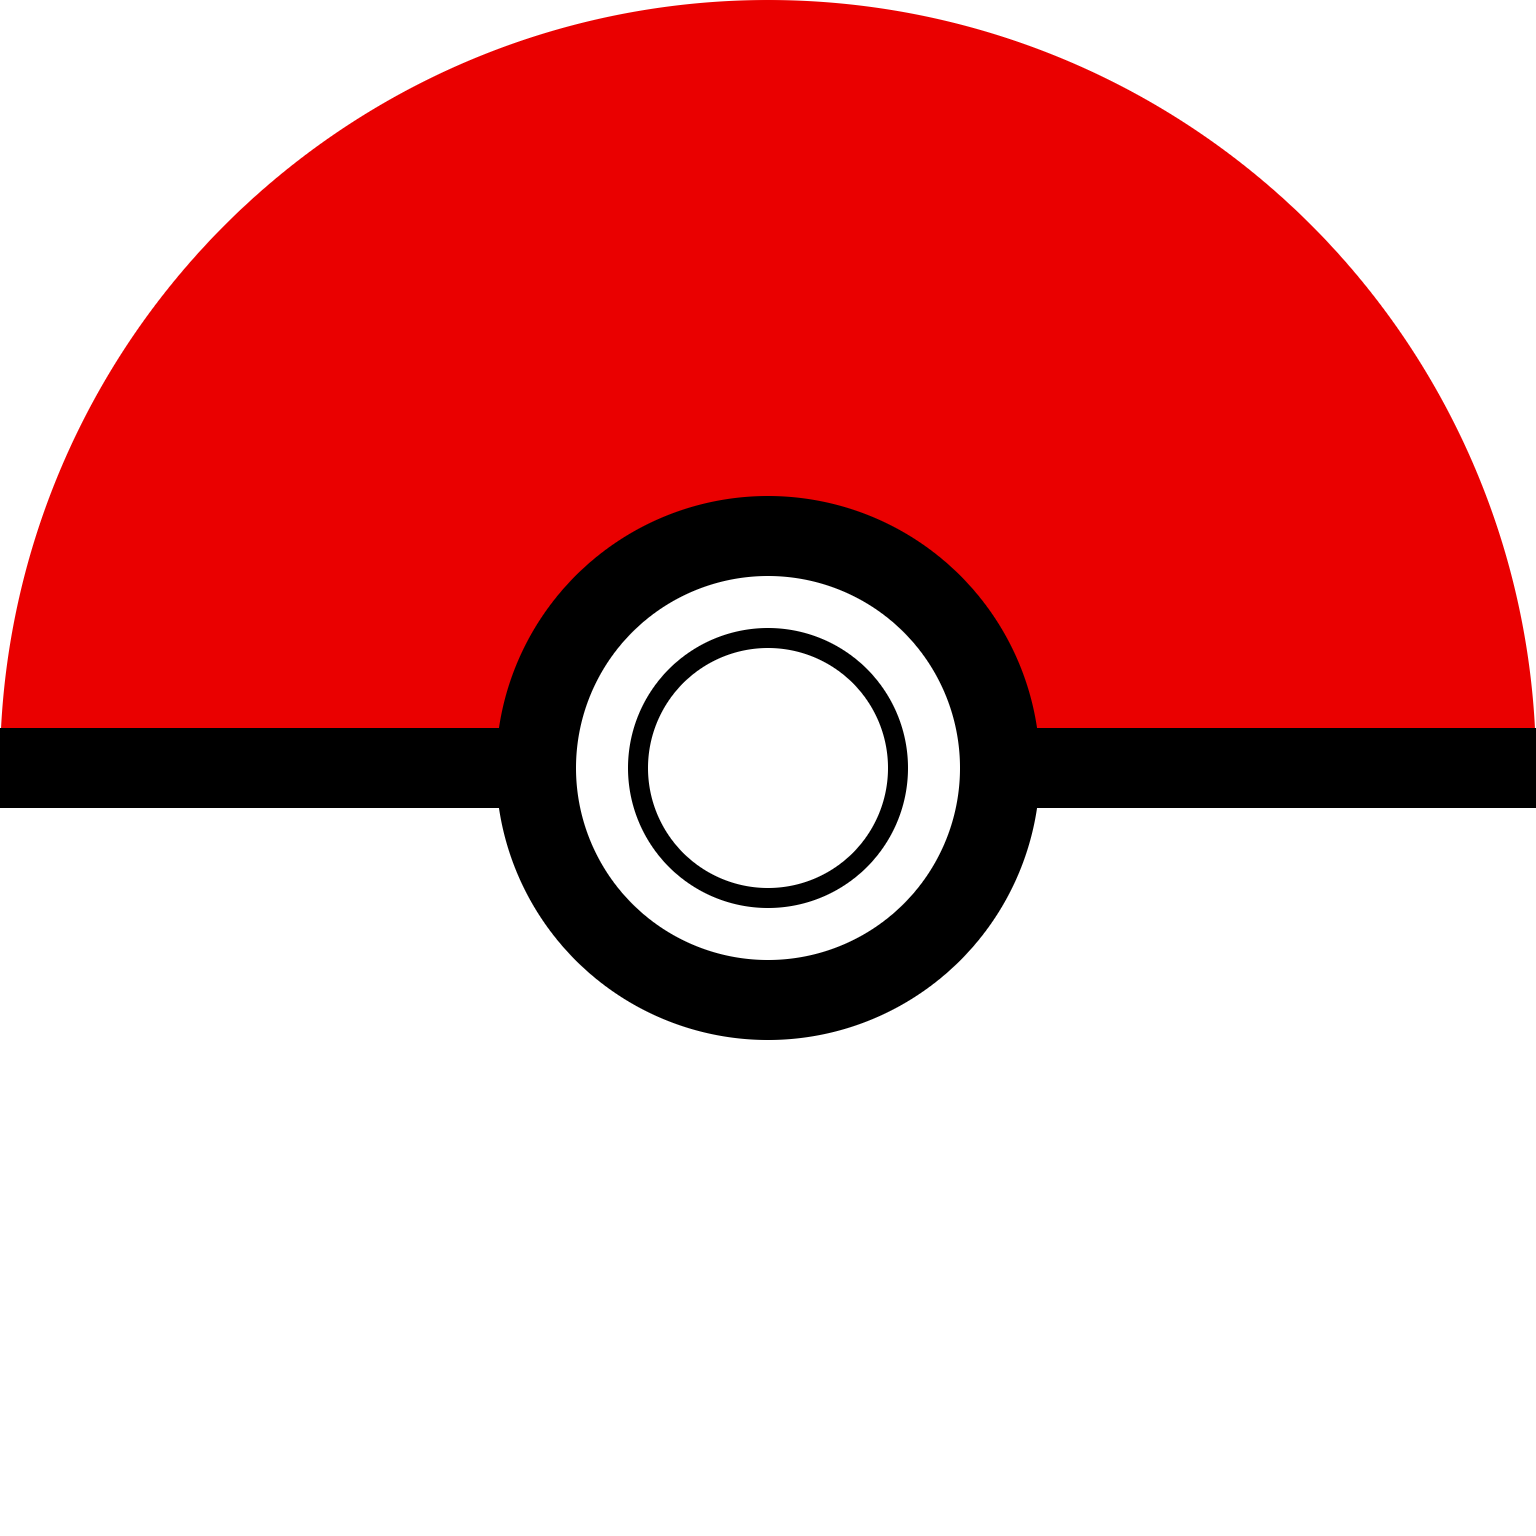
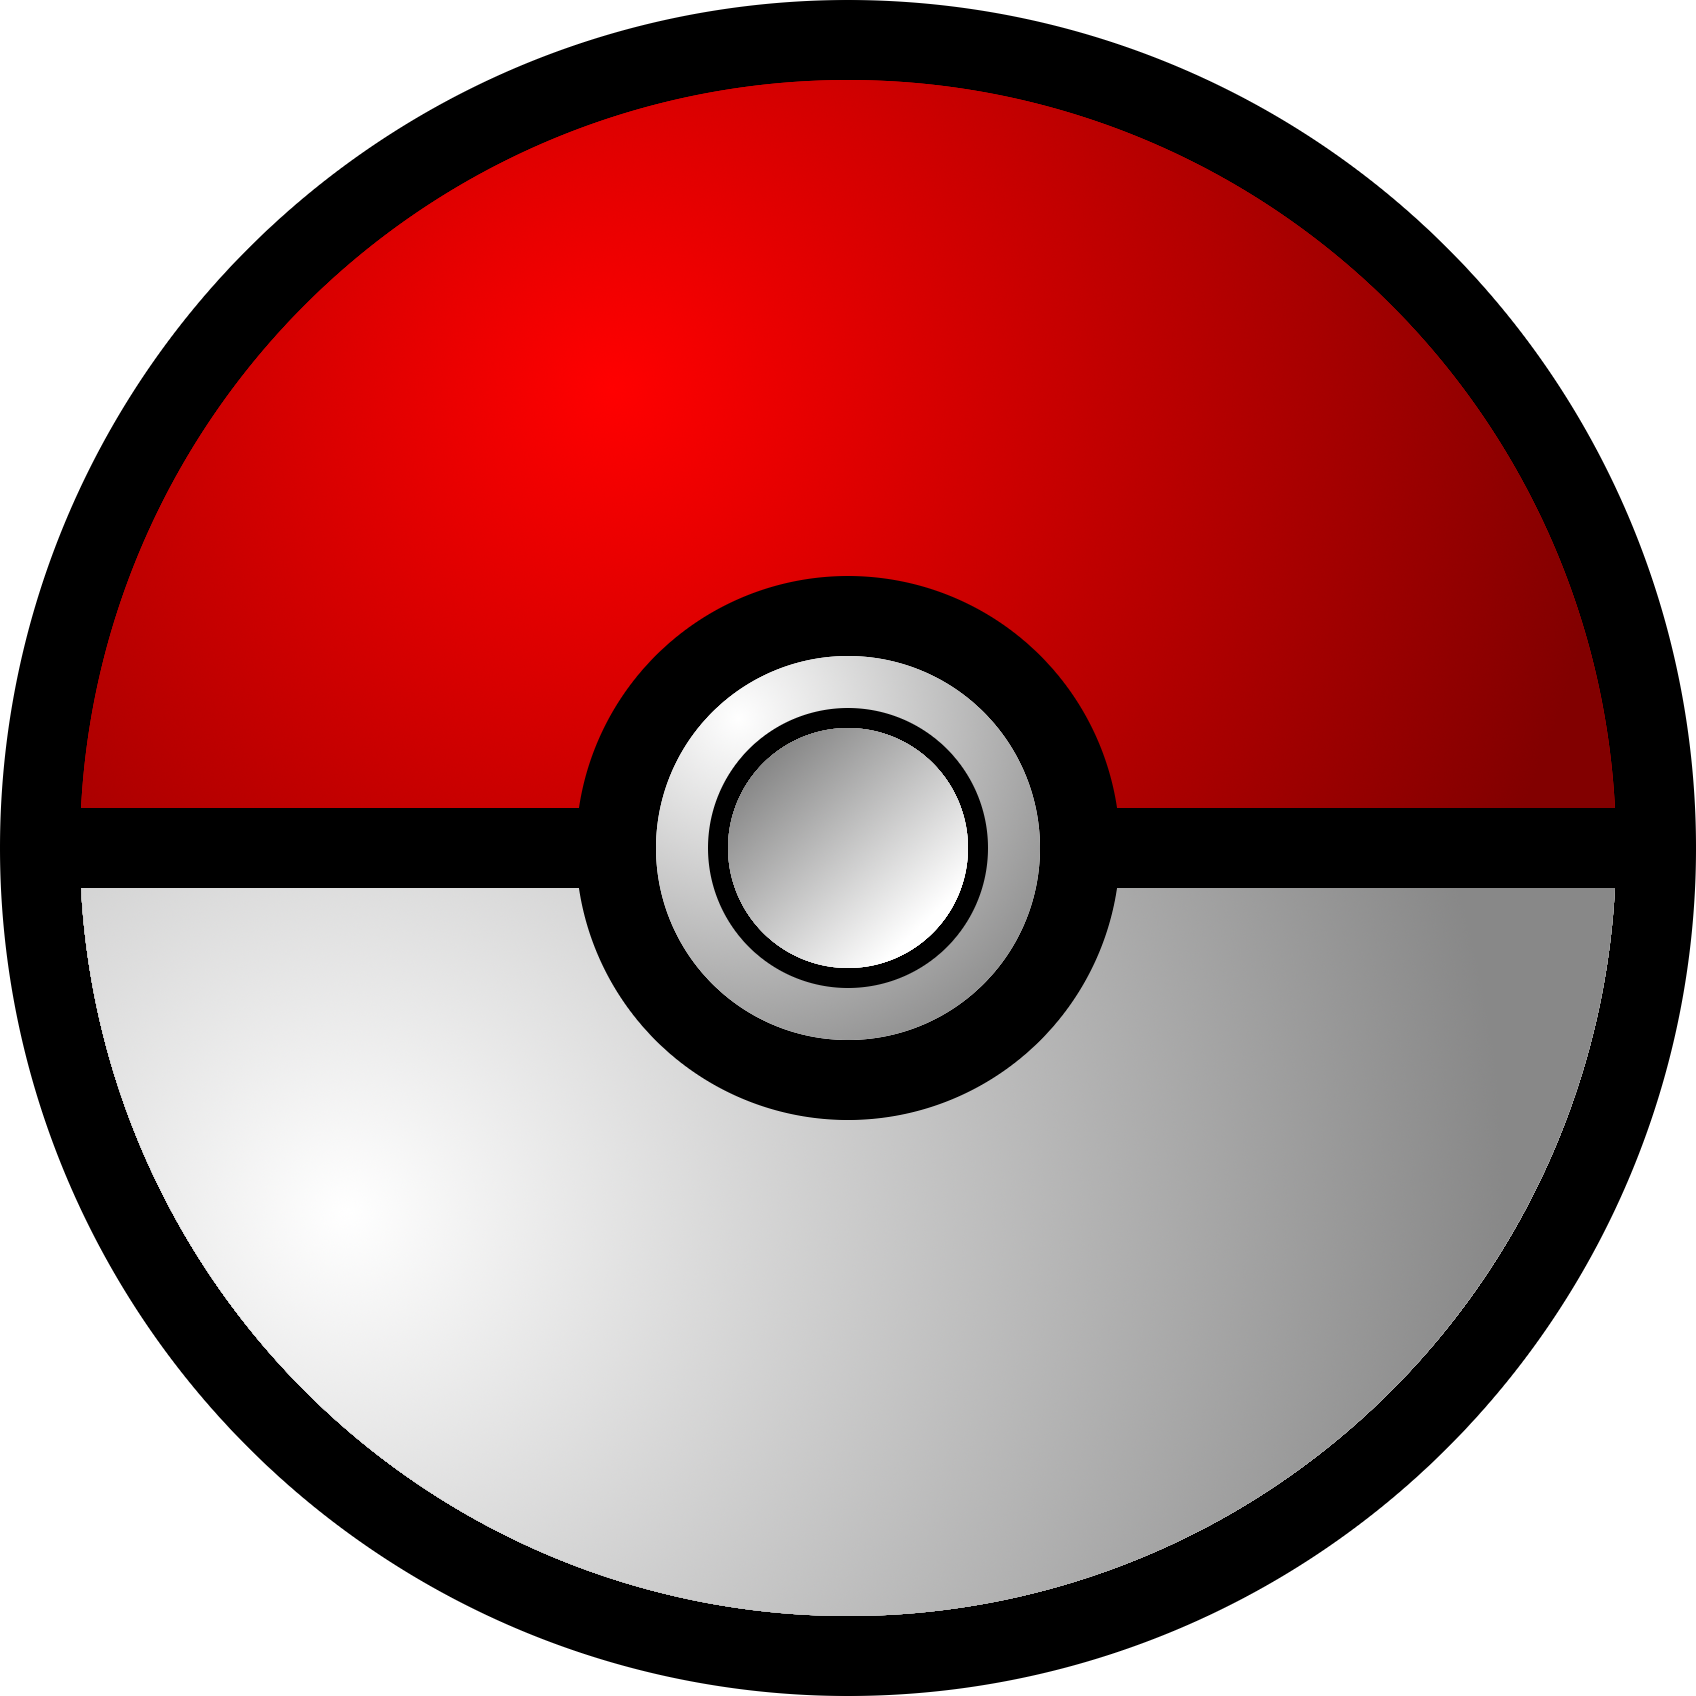
Load Transition

diff --git a/whodatpokemon_states/public/load.js b/whodatpokemon_states/public/load.js
@@ -22,7 +22,17 @@ var loadState = {
   },
 
   create: function() {
-    game.state.start('play');
+
+    bigPokeball = game.add.sprite(640, 360, 'bigPokeball');
+    bigPokeball.anchor.setTo(0.5, 0.5);
+    bigPokeball.scale.setTo( 0.1, 0.1);
+
+    pballSizeTween = game.add.tween(bigPokeball.scale).to({x: 1, y:1}, 1000, Phaser.Easing.Quartic.InOut);
+    pballRotateTween = game.add.tween(bigPokeball).to({angle: 180}, 1000, Phaser.Easing.Quartic.InOut, true);
+    pballSizeTween.start();
+    //pballRotateTween.start();
+
+    pballRotateTween.onComplete.add(startGame, this);
   }
 };
 
@@ -32,4 +42,8 @@ function generatePokemonIndex(min, max) {
 
 function bigPokemonFilename() {
   return "db/img/" + pokedex[pokemonIndex].id + pokedex[pokemonIndex].ename + ".png";
+}
+
+function startGame() {
+  game.state.start('play');
 }

diff --git a/whodatpokemon_states/public/play.js b/whodatpokemon_states/public/play.js
@@ -70,8 +70,7 @@ var playState = {
     bigPokemon = game.add.sprite(380, 320, 'bigPokemon');
     gameSprites.add(bigPokemon);
     bigPokemonProperties();
-
-
+    
     // Who's that Pokemon?
     whoText = game.add.text(750, 350, "Who's that \nPokemon?", { fill: '#000000', fontSize: 40 });
     gameSprites.add(whoText);

diff --git a/whodatpokemon_states/public/boot.js b/whodatpokemon_states/public/boot.js
@@ -2,6 +2,7 @@ var bootState = {
 
     preload: function() {
       game.load.json('pokedex', 'db/pokedex.json');
+      game.load.image('bigPokeball', 'assets/bigpokeball.png')
     },
 
     create: function() {
